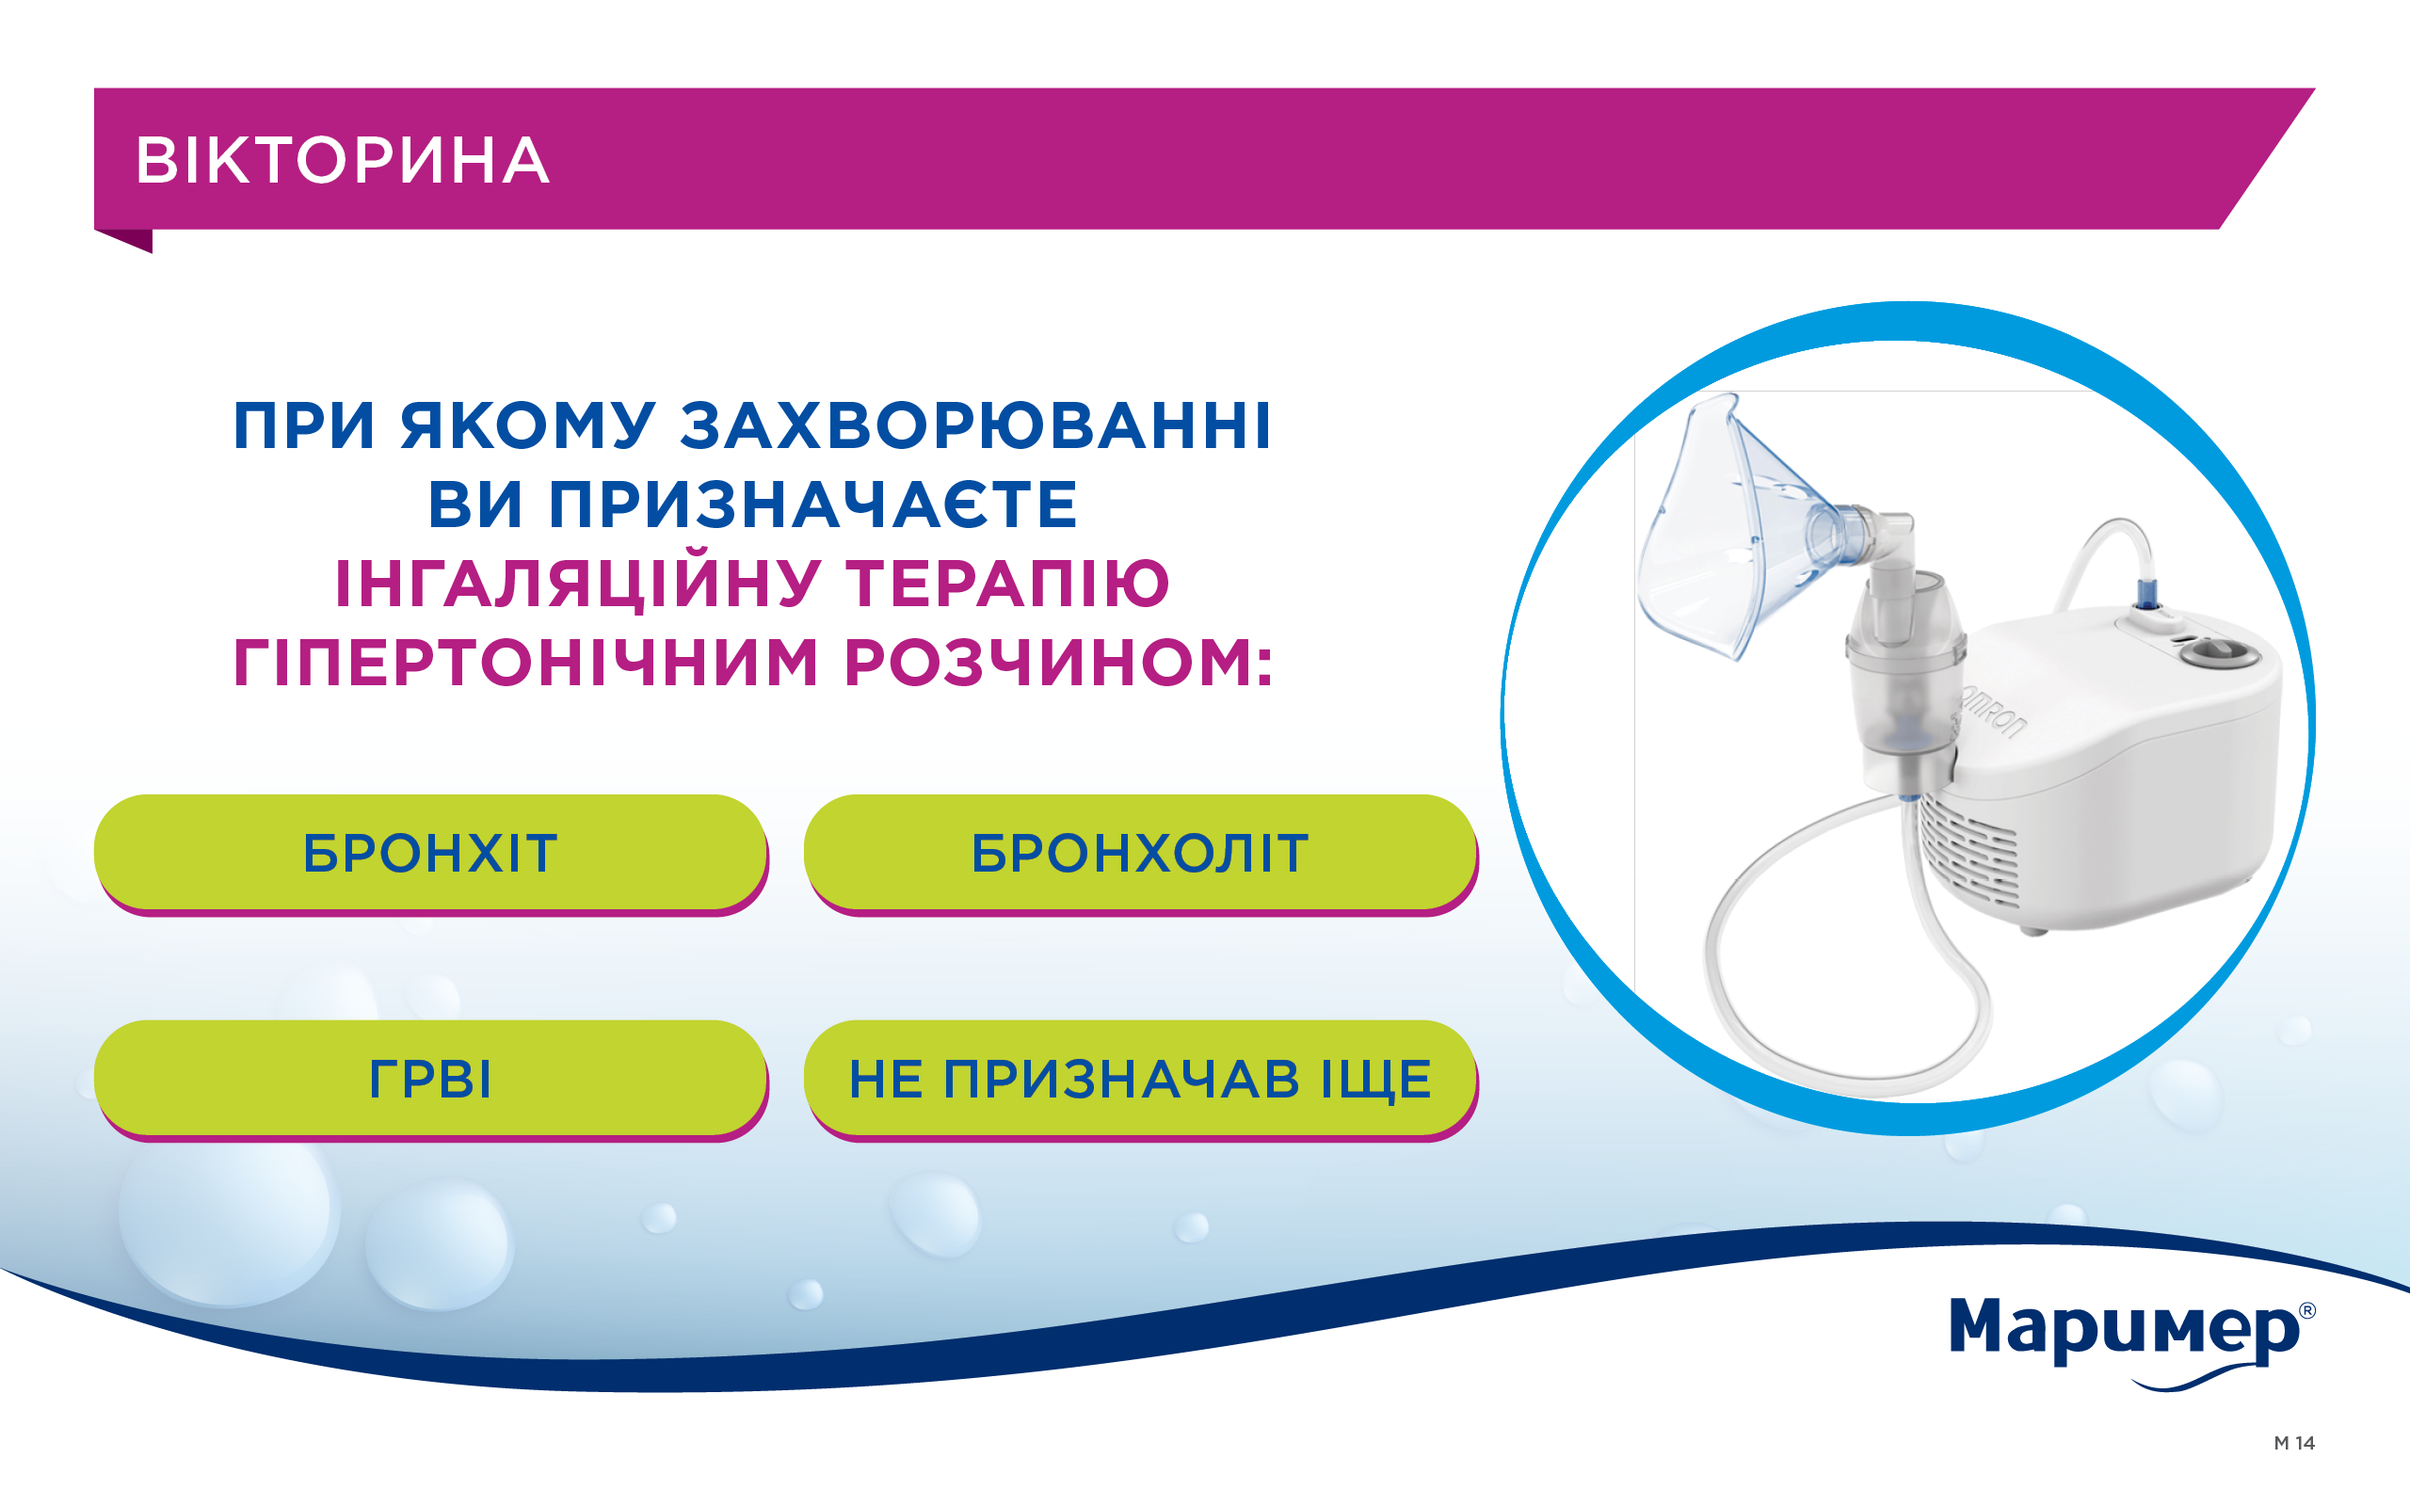
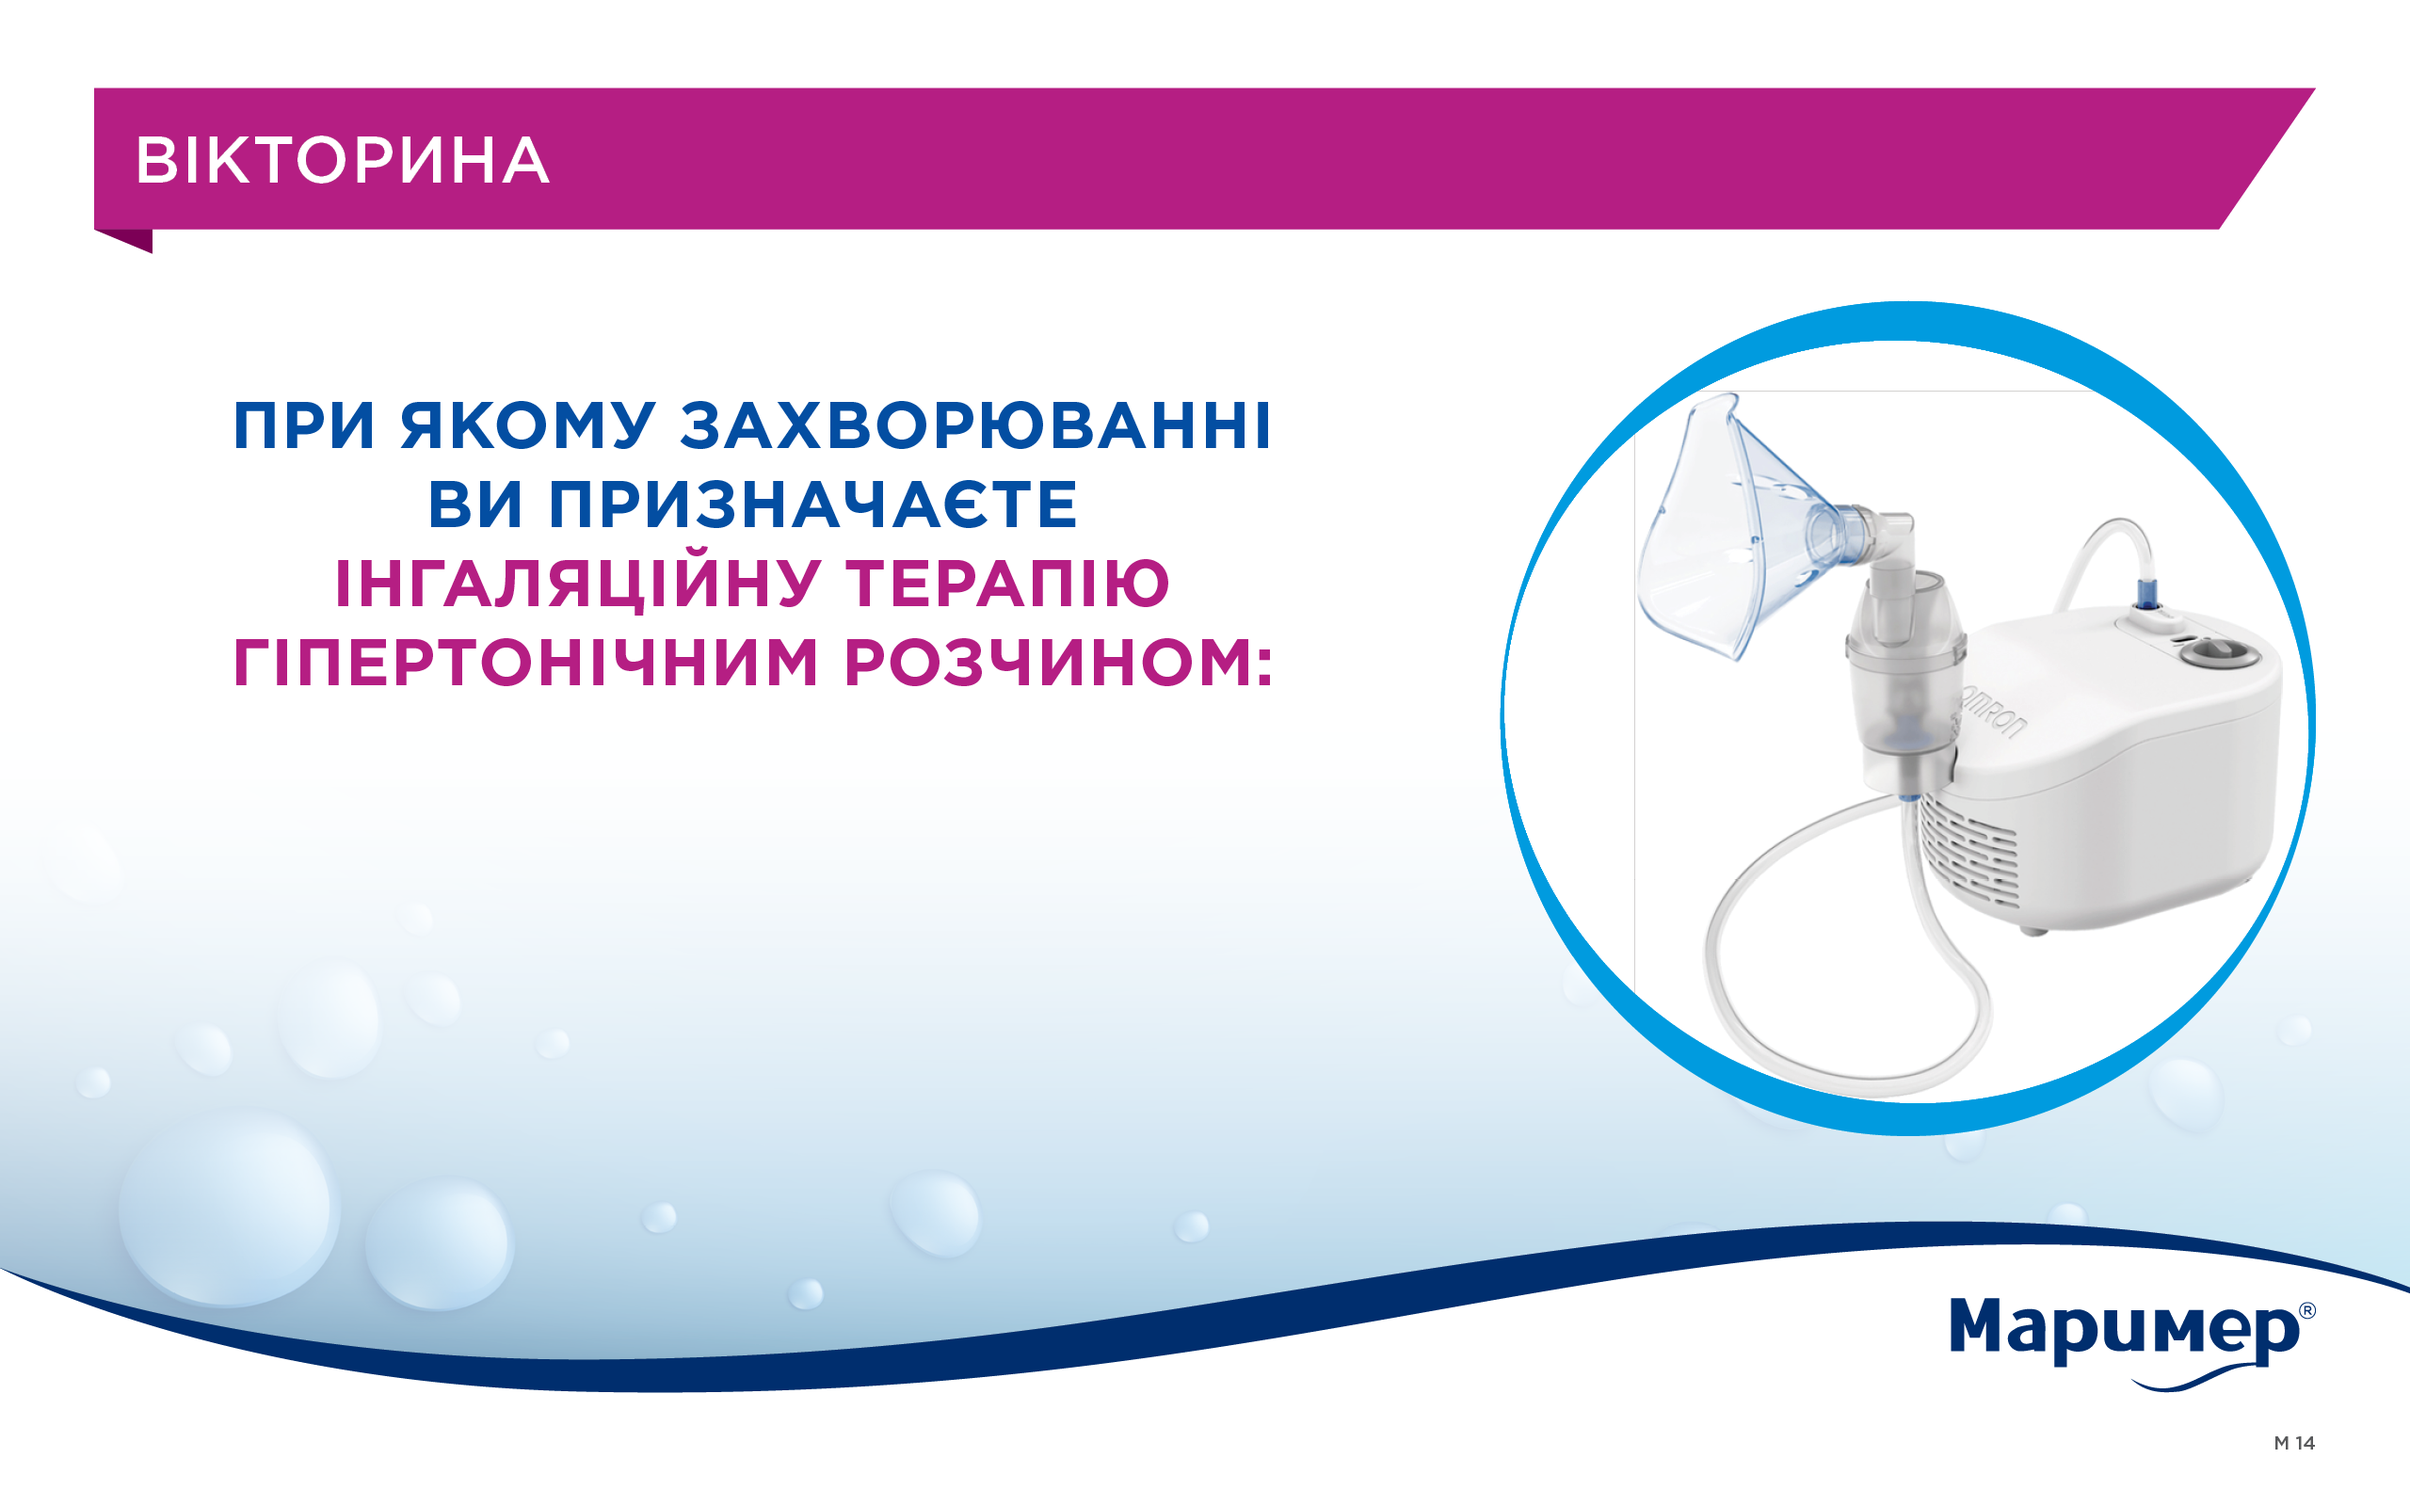
buildTestV21

Changed region(s): [[0.0312, 0.6562, 0.625, 0.7812], [0.0312, 0.5, 0.625, 0.625]]

diff --git a/js/scripts.js b/js/scripts.js
@@ -1,6 +1,55 @@
 
 let dataIndexAsacol = 0;
-
+const addButtonsTemp = [
+    {
+        image: 'url("slides/Enterol v3/Е (40).png")',
+        index: 1
+    },
+    {
+        image: 'url("slides/Enterol v3/Е (39).png")',
+        index: 2
+    },
+    {
+        image: 'url("slides/Enterol v3/Е (38).png")',
+        index: 3
+    },
+    {
+        image: 'url("slides/Enterol v3/Е (35).png")',
+        index: 4
+    },
+    {
+        image: 'url("slides/Enterol v3/Е (36).png")',
+        index: 5
+    },
+    {
+        image: 'url("slides/Enterol v3/Е (33).png")',
+        index: 6
+    },
+    {
+        image: 'url("slides/Enterol v3/Е (34).png")',
+        index: 7
+    },
+    {
+        image: 'url("slides/Enterol v3/Е (32).png")',
+        index: 8
+    },
+    {
+        image: 'url("slides/Enterol v3/Е (41).png")',
+        index: 9
+    },
+    {
+        image: 'url("slides/Enterol v3/Е (43).png")',
+        index: 10
+    },
+    {
+        image: 'url("slides/Enterol v3/Е (45).png")',
+        index: 11
+    },
+    {
+        image: 'url("slides/Enterol v3/Е (48).png")',
+        index: 12
+    },
+];
 
 function checkSpecAnimation(slide) {
     if (slide.special_animation === 'Special') {
@@ -9,8 +58,6 @@ function checkSpecAnimation(slide) {
 }
 
 function generateSlides(slideSet) {
-    console.log("loadSlidesHoriz");
-    console.log("slideSet", slideSet);
     return slideSet.map((slide, index) => {
         // Проверка наличия специальной анимации
         const animationText = checkSpecAnimation(slide);
@@ -67,7 +114,7 @@ function loadSlides(setName) {
 
     // Генерация новых слайдов
     const newSlides = generateSlides(mapping[setName]);
-    console.log(newSlides);
+
 
     const tempDiv = document.createElement('div');
     tempDiv.innerHTML = newSlides;
@@ -135,6 +182,23 @@ function addButtonsToBackgroundContainer(slideId, buttons) {
         } else {
             console.error('background-container не найден в section:', slideId);
         }
+        const bgImage = backgroundContainer.style.backgroundImage;
+        const matchingSlide = addButtonsTemp.find(item => item.image === bgImage);
+
+        if (matchingSlide) {
+            const extraDiv = document.createElement('div');
+            extraDiv.id = `extra-${matchingSlide.index}`;
+            extraDiv.className = 'extra-content';
+            
+            extraDiv.addEventListener('click', function () {
+                addTemporarySlide({ image: 'slides/Enterol2560/E (Ssi).png', type: 'Enterol' });
+            });
+
+            if (!backgroundContainer.querySelector(`#${extraDiv.id}`)) {
+                backgroundContainer.appendChild(extraDiv);
+            }
+        }
+
     } else {
         console.error('Section с ID', slideId, 'не найден');
     }
@@ -367,5 +431,16 @@ function adjustScale() {
   // Настроим наблюдатель на изменения в DOM
   observer2.observe(document.body, { childList: true, subtree: true });
 
- 
+
+  function toggleActiveClass(event) {
+      // Находим все элементы с классом .m_14-btn
+      const buttons = document.querySelectorAll('.m_14-btn');
+      
+      // Убираем класс active у всех кнопок
+      buttons.forEach(button => button.classList.remove('active'));
+
+      // Добавляем класс active только на ту, по которой кликнули
+      event.target.classList.add('active');
+  }
+
   

diff --git a/css/styles.css b/css/styles.css
@@ -2292,9 +2292,110 @@ display: flex;
     z-index: 9999999;
     font-size: 30px;
 }
-  
-    
 
+
+.extra-content {
+  position: absolute;
+  background: rgba(0, 0, 0, 0);
+  cursor: pointer;
+  z-index: 999999999;
+  width: 12%;
+  height: 6%;
+  border-radius: 50%;
+}
+
+#extra-1 {
+  top: 68%;
+  left: 5.5%;
+}
+
+#extra-2 {
+  top: 78%;
+  left: 5.5%;
+}
+
+#extra-3 {
+  top: 73.3%;
+  left: 21.2%;
+}
+
+#extra-9 {
+  top: 61.5%;
+  left: 5.6%;
+}
+
+#extra-4 {
+  top: 83.1%;
+  left: 5.6%;
+}
+
+#extra-5 {
+  top: 85%;
+  left: 5.6%;
+}
+
+#extra-6 {
+  top: 64.8%;
+  left: 5.6%;
+}
+
+#extra-7 {
+  top: 83.4%;
+  left: 5.6%;
+}
+
+#extra-8 {
+  top: 59%;
+  left: 5.6%;
+}
+
+#extra-10 {
+  top: 79.5%;
+  left: 5.6%
+}
+
+#extra-11 {
+  top: 82.5%;
+  left: 5.6%
+}
+
+#extra-12 {
+  top: 84%;
+  left: 5.6%
+}
+
+.m_14-btn-block {
+  display: flex;
+  flex-direction: column;
+  position: absolute;
+  top: 50%;
+  left: 5%;
+  width: 54%;
+  height: 35%;
+  z-index: 999999;
+}
+
+.m_14-btn-block-content {
+  display: flex;
+  height: 50%;
+  flex-direction: row;
+  align-items: center;
+  justify-content: space-around;
+}
+
+.m_14-btn {
+  transform: scale(1);               /* Изначальный масштаб */
+  margin: 0px !important;            /* Убираем отступы с использованием !important */
+  width: 46%;                        /* Ширина изображения */
+  height: 60%;                       /* Высота изображения */
+  object-fit: contain;               /* Масштабирование изображения с сохранением пропорций */
+  cursor: pointer;                  /* Курсор в виде руки */
+  transition: transform 0.3s ease;   /* Плавный переход для изменения масштаба */
+}
+
+.m_14-btn.active {
+  transform: scale(1.2);             /* Увеличение масштаба при добавлении класса active */
+}
 
 /* Останавливаем скрытие фокусируемых элементов внутри родительского элемента с aria-hidden */
 [aria-hidden="true"] :focus {

diff --git a/js/subpresentation.js b/js/subpresentation.js
@@ -1,6 +1,7 @@
 let tempSlidesMap = {}; // Карта для хранения временных слайдов и их родительских слайдов
 let tempId = 1;
 
+
 function generateTemporarySlideForSlides(slideData) {
     console.log("generateTemporarySlide");
     console.log("slideData", slideData);
@@ -33,13 +34,13 @@ function generateTemporarySlideForSlides(slideData) {
         ${text}
     `;
 
+
     section.appendChild(container);
     return section;
 }
 
 function addTemporarySlides(slideDataArray) {
     console.log("addTemporarySlides");
-
     const currentSlide = Reveal.getCurrentSlide();
     if (!currentSlide) {
         console.error('Текущий слайд не найден.');
@@ -54,7 +55,6 @@ function addTemporarySlides(slideDataArray) {
 
     let parentSlideId = null;
     let tempSlidesList= []
-
     // Создаём и добавляем каждый временный слайд из массива
     slideDataArray.forEach(slideData => {
         const tempSlide = generateTemporarySlideForSlides(slideData);

diff --git a/js/special.js b/js/special.js
@@ -1116,3 +1116,15 @@ const c_9 = `
         <button class="hidden-video-stresam-close" id="hidden-video-stresam-close" onclick="document.getElementById('hidden-video-stresam-overlay').style.display='none'; document.getElementById('hidden-video-stresam').pause();">X</button>
     </div>
 `
+const m_14 = `
+    <div class="m_14-btn-block">
+        <div class="m_14-btn-block-content">
+            <img id="m_14-1" src="slides/Marimer2560/animBtnM14/br.png"  class="m_14-btn" onclick="toggleActiveClass(event)"></img>
+            <img id="m_14-2" src="slides/Marimer2560/animBtnM14/bro.png" class="m_14-btn" onclick="toggleActiveClass(event)"></img>
+        </div>
+        <div class="m_14-btn-block-content">
+            <img id="m_14-3" src="slides/Marimer2560/animBtnM14/grv.png"  class="m_14-btn" onclick="toggleActiveClass(event)"></img>
+            <img id="m_14-4" src="slides/Marimer2560/animBtnM14/no.png" class="m_14-btn" onclick="toggleActiveClass(event)"></img>
+        </div
+    </div>
+`

diff --git a/index.html b/index.html
@@ -9,7 +9,7 @@
 		<link rel="stylesheet" href="dist/reset.css">
 		<link rel="stylesheet" href="dist/reveal.css">
 		<link rel="stylesheet" href="dist/theme/black.css">
-		<link rel="stylesheet" href="css/styles.css?v=11126">
+		<link rel="stylesheet" href="css/styles.css?v=11127">
 
 		<link rel="stylesheet" href="plugin/highlight/monokai.css">
 	</head>
@@ -42,8 +42,8 @@
 		<script src="plugin/markdown/markdown.js"></script>
 		<script src="plugin/highlight/highlight.js"></script>
 		<script src="js/special.js"></script>
-		<script src="js/mapping.js?v=11126"></script>
-        <script src="js/scripts.js?v=11126"></script>
+		<script src="js/mapping.js?v=11127"></script>
+        <script src="js/scripts.js?v=11127"></script>
 		<script src="js/subpresentation.js"></script>
 		<script src="js/components/renderAnimation.js"></script>
 		<script src="js/buttons.js"></script>

diff --git a/js/mapping.js b/js/mapping.js
@@ -68,7 +68,8 @@ const mapping = {
         {
             image: "slides/Marimer2560/M (14).png",
             type: "Marimer",
-            special_animation: 'Base'
+            special_animation: 'Special',
+            animation_text: m_14
         },
         {
             image: "slides/Bebykol2560/Б (5) new.png",
@@ -632,6 +633,8 @@ const arrayM1_3 = [
     {
             image: "slides/Marimer2560/M (14).png",
             type: "Marimer",
+            special_animation: 'Special',
+            animation_text: m_14
     },
     {
             image: "slides/Marimer2560/M (23).png",

diff --git a/js/buttons.js b/js/buttons.js
@@ -1,6 +1,9 @@
 let temp_id = 1;
 let lastTempSlide = null;
 
+
+
+
 function generateTemporarySlide(slideData) {
     const animationText = checkSpecAnimation(slideData);
     const text = animationText !== null ? animationText : "";
@@ -42,7 +45,7 @@ function generateTemporarySlide(slideData) {
 
 function addTemporarySlide(slideData) {
     console.log("addTemporarySlide");
-
+    console.log(slideData);
     const currentSlide = Reveal.getCurrentSlide();
     if (!currentSlide) {
         console.error('Текущий слайд не найден.');
